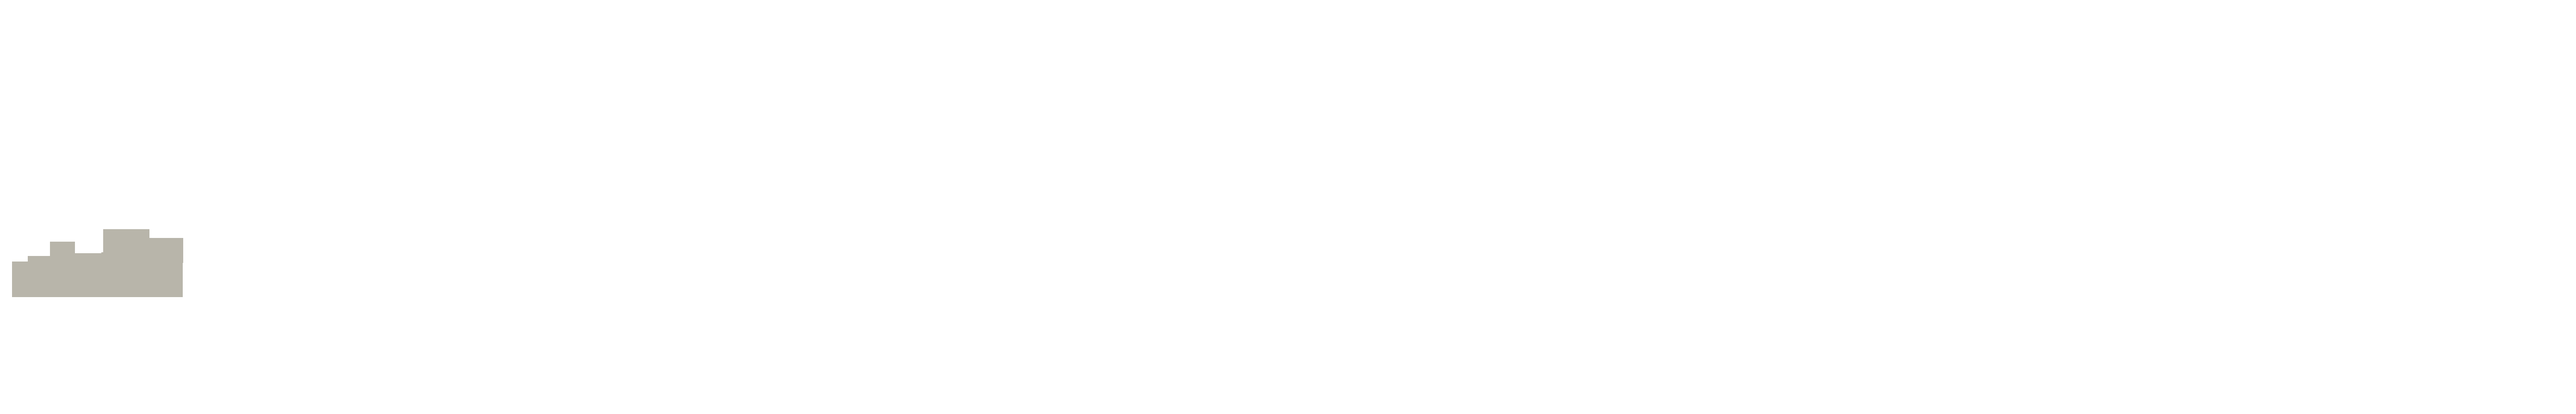
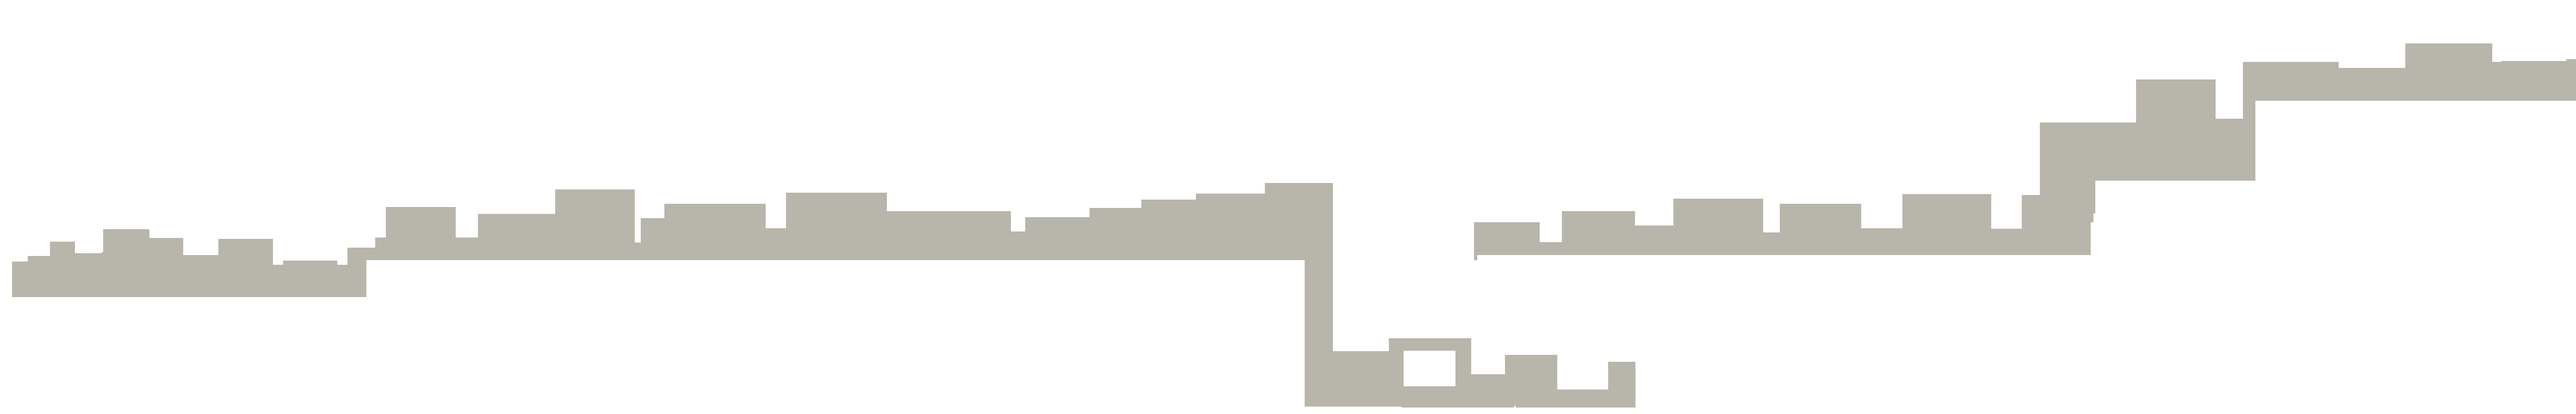
added more to bg and fixed bug with shooting anim

Changed region(s): [[0.0625, 0.4375, 0.6562, 1.0], [0.5625, 0.0938, 1.0, 0.625]]

diff --git a/Assets/Scripts/Shooting-Bullet Scripts/Shooting.cs b/Assets/Scripts/Shooting-Bullet Scripts/Shooting.cs
@@ -158,7 +158,7 @@ public class Shooting : MonoBehaviour
                 //Debug.Log("Shot bullet");
                 //this causes this screen to shake when you shoot
                 //StartCoroutine(cameraScript.Shake());
-                cameraShake.shakeDuration = 0.2f;
+                cameraShake.shakeDuration = 0.2f; //This causes the shake (new script)
                 Instantiate(gunScriptableObject.bullet, gunScriptableObject.bulletTransform, Quaternion.identity);
                 GunFire.Play();
                 //Debug.Log("Playing Sound");
@@ -170,7 +170,16 @@ public class Shooting : MonoBehaviour
 
                 if (heldDown == false) heldDown = true;
             }
-            if(heldDown = true && Input.GetMouseButtonUp(0))
+
+            /*
+            if(!gunScriptableObject.canFire)
+            {
+                AnimGunRight.SetBool("Fire", false);
+                AnimGunLeft.SetBool("Fire", false);
+                AnimPlayer.SetBool("Fire", false);
+            }
+            */
+            else if(Input.GetMouseButtonUp(0) || gunScriptableObject.ammoCountCurrent <= 0)
             {
                 
                 AnimGunRight.SetBool("Fire", false);
